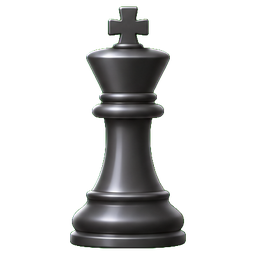
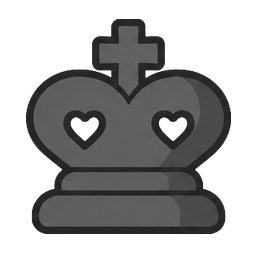
Game board: green theme with flat pieces and coordinates outside the board
Light and dark squares, the last-move highlight and the dark frame with
rank and file labels follow the chess.com green board. A new flat,
outlined piece set replaces the glossy one, and piece URLs carry a
version so day-cached images refresh.

diff --git a/admin/admin.css b/admin/admin.css
@@ -89,7 +89,6 @@ html[lang="en"] { --font: 'Inter', 'Heebo', system-ui, sans-serif; }
 }
 :root[data-theme="dark"] .avatar.ink { color: #6d5521; }
 :root[data-theme="dark"] .modal-backdrop { background: rgba(0, 0, 0, 0.62); }
-:root[data-theme="dark"] .board { border-color: #3a2d1f; }
 /* The pawn emoji is drawn black; on a dark sidebar it needs lifting. */
 :root[data-theme="dark"] .nav-item:not(.active)[data-route="groups"] .nav-icon { filter: invert(0.82) sepia(0.4); }
 
@@ -504,34 +503,42 @@ html[dir="rtl"] .pipe-arrow { transform: scaleX(-1); }
 .pipe-actions { display: flex; gap: 4px; flex-wrap: wrap; margin-top: 8px; }
 .pipe-actions:empty { display: none; }
 
-/* chess board (FEN) */
+/* chess board (FEN), in the chess.com green theme: a dark frame with the
+   rank numbers to the left and the file letters below. The frame's gutters
+   are sized from the board-wrap's width (cqw), so a small preview board and
+   the viewer board share the same proportions. */
+.board-wrap { display: flex; flex-direction: column; gap: 6px; align-items: center; width: 100%; max-width: 360px; container-type: inline-size; }
+.board-frame {
+  display: grid; grid-template-columns: 3.56cqw minmax(0, 1fr) 0.75cqw; grid-template-rows: 1.51cqw auto 4.31cqw;
+  width: 100%; direction: ltr; background: #302e2b; border-radius: 6px;
+}
+.board-frame .ranks { grid-column: 1; grid-row: 2; display: grid; grid-template-rows: repeat(8, 1fr); }
+.board-frame .files { grid-column: 2; grid-row: 3; display: grid; grid-template-columns: repeat(8, 1fr); }
+.board-frame .ranks span, .board-frame .files span {
+  display: flex; align-items: center; justify-content: center;
+  color: #989795; font: 700 max(8px, 2.3cqw)/1 'Inter', system-ui, sans-serif; user-select: none;
+}
 .board {
+  grid-column: 2; grid-row: 2;
   position: relative; display: grid; grid-template-columns: repeat(8, 1fr); grid-template-rows: repeat(8, 1fr);
-  width: 100%; aspect-ratio: 1 / 1; direction: ltr; overflow: hidden;
-  border: 4px solid #4a3a28; border-radius: 6px; box-shadow: 0 6px 18px rgba(60, 40, 10, 0.18);
-  background: #b58863;
+  width: 100%; aspect-ratio: 1 / 1; direction: ltr; overflow: hidden; border-radius: 3px;
+  background: #7a945a;
 }
 .board .sq { position: relative; min-width: 0; min-height: 0; overflow: hidden; display: flex; align-items: center; justify-content: center; user-select: none; }
-.board .sq.light { background: #f0d9b5; }
-.board .sq.dark { background: #b58863; }
-.board .sq.hl::before { content: ''; position: absolute; inset: 0; background: rgba(255, 210, 60, 0.55); }
-.board .sq img { position: relative; width: 88%; height: 88%; object-fit: contain; pointer-events: none; filter: drop-shadow(0 2px 2px rgba(0,0,0,0.25)); }
+.board .sq.light { background: #ebecd3; }
+.board .sq.dark { background: #7a945a; }
+.board .sq.hl { background: #bdc95e; }
+.board .sq img { position: relative; width: 100%; height: 100%; object-fit: contain; pointer-events: none; }
 /* The glyph fallback is sized from the board's own width (one square is
    12.5cqw), so it never overflows a small board such as a puzzle card. */
 .board { container-type: inline-size; }
 .board .sq .glyph { position: relative; font-size: 9cqw; line-height: 1; }
 @supports not (font-size: 1cqw) { .board .sq .glyph { font-size: clamp(10px, 4vw, 30px); } }
 .board .float { position: absolute; display: flex; align-items: center; justify-content: center; pointer-events: none; will-change: transform, opacity; }
-.board .float img { width: 88%; height: 88%; object-fit: contain; filter: drop-shadow(0 6px 6px rgba(0,0,0,0.3)); }
+.board .float img { width: 100%; height: 100%; object-fit: contain; }
 .board .float .glyph { font-size: 9cqw; line-height: 1; }
 .board .sq .glyph.w, .board .float .glyph.w { color: #fff; text-shadow: 0 0 2px #000, 0 0 1px #000; }
 .board .sq .glyph.b, .board .float .glyph.b { color: #111; }
-.board .coord { position: absolute; font-size: clamp(8px, 1.6vw, 11px); font-weight: 700; line-height: 1; opacity: .8; font-family: 'Inter', sans-serif; }
-.board .coord.rank { top: 3px; left: 4px; }
-.board .coord.file { bottom: 2px; right: 4px; }
-.board .sq.light .coord { color: #8a6a44; }
-.board .sq.dark .coord { color: #f0d9b5; }
-.board-wrap { display: flex; flex-direction: column; gap: 6px; align-items: center; width: 100%; max-width: 360px; }
 .board-caption { font-size: 12px; color: var(--text-light); }
 .viewer { display: grid; grid-template-columns: minmax(280px, 560px) minmax(220px, 1fr); gap: 22px; align-items: start; }
 .viewer .board-wrap { max-width: 560px; }

diff --git a/admin/ui.js b/admin/ui.js
@@ -631,13 +631,16 @@
   }
 
   // ------------------------------------------------------------- FEN board
-  // An 8x8 CSS grid with a fixed 1:1 aspect ratio per square. Pieces are
+  // An 8x8 CSS grid with a fixed 1:1 aspect ratio per square, inside a dark
+  // frame that carries the coordinates. Pieces are
   // images under /admin/pieces (wK.png ... bP.png); the Unicode glyph is the
-  // fallback if an image is missing.
+  // fallback if an image is missing. Images are cached for a day, so bump
+  // PIECE_VERSION whenever the set is redrawn.
+  const PIECE_VERSION = 2;
   const PIECES = { K: '♔', Q: '♕', R: '♖', B: '♗', N: '♘', P: '♙', k: '♚', q: '♛', r: '♜', b: '♝', n: '♞', p: '♟' };
   function pieceImage(piece) {
     const color = piece === piece.toUpperCase() ? 'w' : 'b';
-    const img = h('img', { src: `/admin/pieces/${color}${piece.toUpperCase()}.png`, alt: PIECES[piece], draggable: false });
+    const img = h('img', { src: `/admin/pieces/${color}${piece.toUpperCase()}.png?v=${PIECE_VERSION}`, alt: PIECES[piece], draggable: false });
     img.addEventListener('error', () => { img.replaceWith(h('span', { class: `glyph ${color}` }, PIECES[piece])); }, { once: true });
     return img;
   }
@@ -650,22 +653,25 @@
       let file = 0;
       for (const char of rank) {
         if (/\d/.test(char)) {
-          for (let i = 0; i < Number(char); i += 1) { node.append(square(rankIndex, file, '', highlights, coords)); file += 1; }
+          for (let i = 0; i < Number(char); i += 1) { node.append(square(rankIndex, file, '', highlights)); file += 1; }
         } else {
-          node.append(square(rankIndex, file, char, highlights, coords));
+          node.append(square(rankIndex, file, char, highlights));
           file += 1;
         }
       }
     });
     const sideToMove = String(fen || '').trim().split(/\s+/)[1];
-    return h('div', { class: 'board-wrap' }, node, caption && sideToMove ? h('div', { class: 'board-caption' }, sideToMove === 'b' ? t('blackToMove') : t('whiteToMove')) : null);
+    const frame = h('div', { class: 'board-frame' },
+      coords ? h('div', { class: 'ranks' }, ...[8, 7, 6, 5, 4, 3, 2, 1].map((rank) => h('span', null, String(rank)))) : null,
+      node,
+      coords ? h('div', { class: 'files' }, ...[...'abcdefgh'].map((file) => h('span', null, file))) : null
+    );
+    return h('div', { class: 'board-wrap' }, frame, caption && sideToMove ? h('div', { class: 'board-caption' }, sideToMove === 'b' ? t('blackToMove') : t('whiteToMove')) : null);
   }
-  function square(rankIndex, file, piece, highlights, coords) {
+  function square(rankIndex, file, piece, highlights) {
     const light = (rankIndex + file) % 2 === 0;
     const squareName = 'abcdefgh'[file] + (8 - rankIndex);
     return h('div', { class: `sq ${light ? 'light' : 'dark'} ${highlights.includes(squareName) ? 'hl' : ''}`, dataset: { square: squareName } },
-      coords && file === 0 ? h('span', { class: 'coord rank' }, String(8 - rankIndex)) : null,
-      coords && rankIndex === 7 ? h('span', { class: 'coord file' }, 'abcdefgh'[file]) : null,
       piece ? pieceImage(piece) : null
     );
   }
